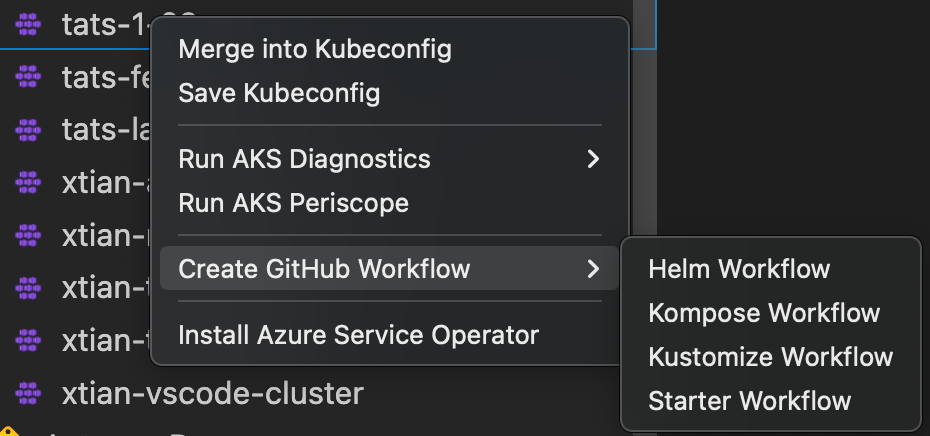
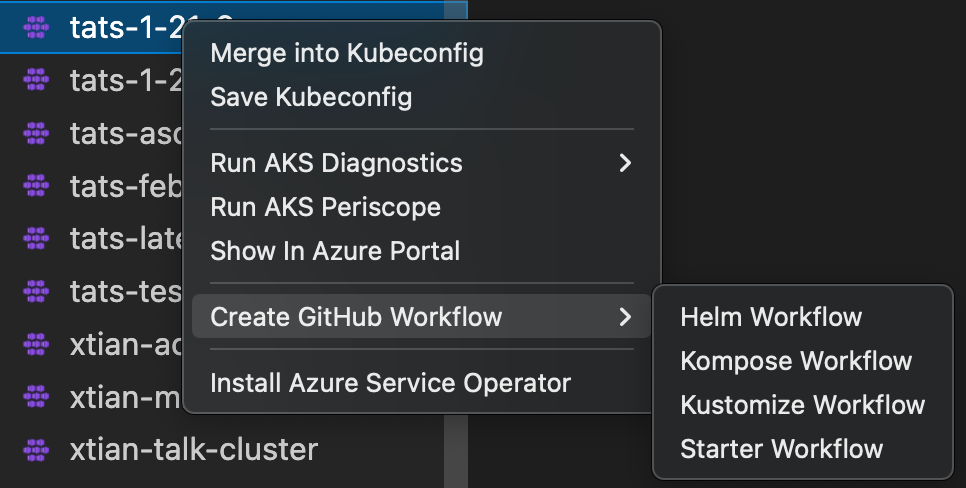
Publish 0.0.19 changes (#129)

Changed region(s): [[0.0, 0.0, 0.9978, 1.0], [0.0, 0.9839, 0.0312, 1.0]]

diff --git a/README.md b/README.md
@@ -11,6 +11,7 @@
 * Run AKS Periscope within VS Code
 * Install Azure Service Operator on your AKS cluster
 * Create GitHub Workflow from your AKS cluster
+* Show AKS cluster overview in Azure Portal
 
 ## Installation
 
@@ -104,6 +105,10 @@ Right click on your AKS cluster and click on **Create GitHub Workflow** to easil
 - [Helm Workflow](https://github.com/actions/starter-workflows/blob/main/deployments/azure-kubernetes-service-helm.yml)
 - [Kompose Workflow](https://github.com/actions/starter-workflows/blob/main/deployments/azure-kubernetes-service-kompose.yml)
 - [Kustomize Workflow](https://github.com/actions/starter-workflows/blob/main/deployments/azure-kubernetes-service-kustomize.yml)
+
+### Show in Azure Portal
+
+Right click on your AKS cluster and click on **Show in Azure Portal** to easily navigate to AKS cluster overview page in Azure Portal.
 
 ## Telemetry
 

diff --git a/CHANGELOG.md b/CHANGELOG.md
@@ -1,5 +1,11 @@
 # Change Log
 
+## [0.0.19]
+
+* Enabling show in azure portal usability feature.
+
+Thanks to @rzhang628 and @peterbom for reviews.
+
 ## [0.0.18]
 
 * Integrating Known Issues, Availability and Performance detector.
